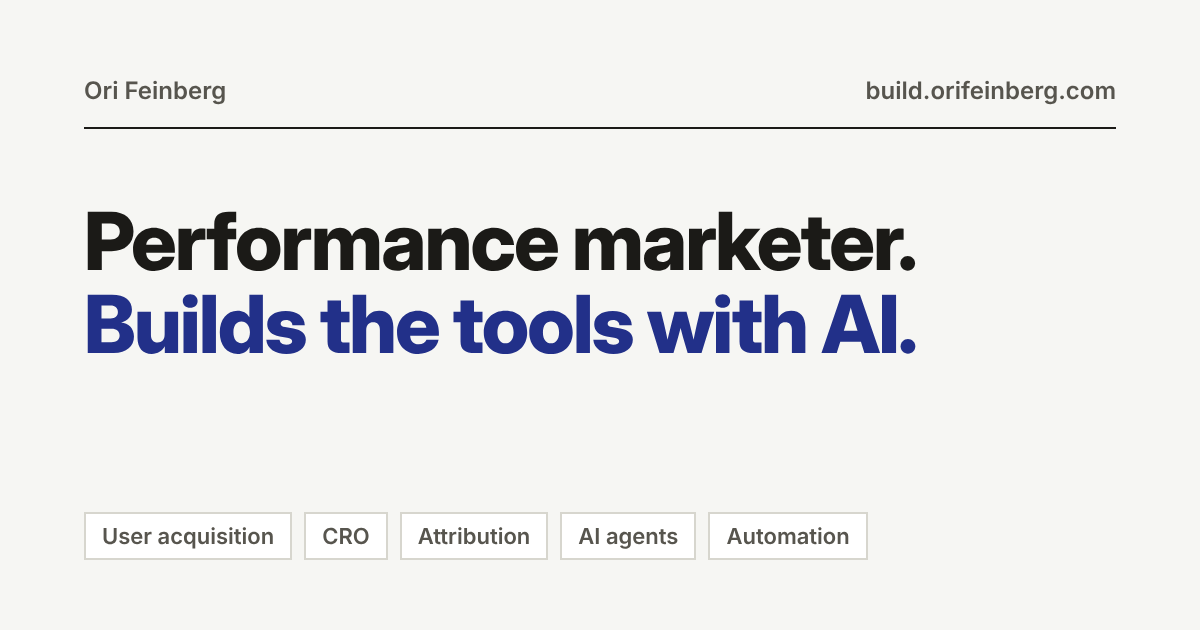
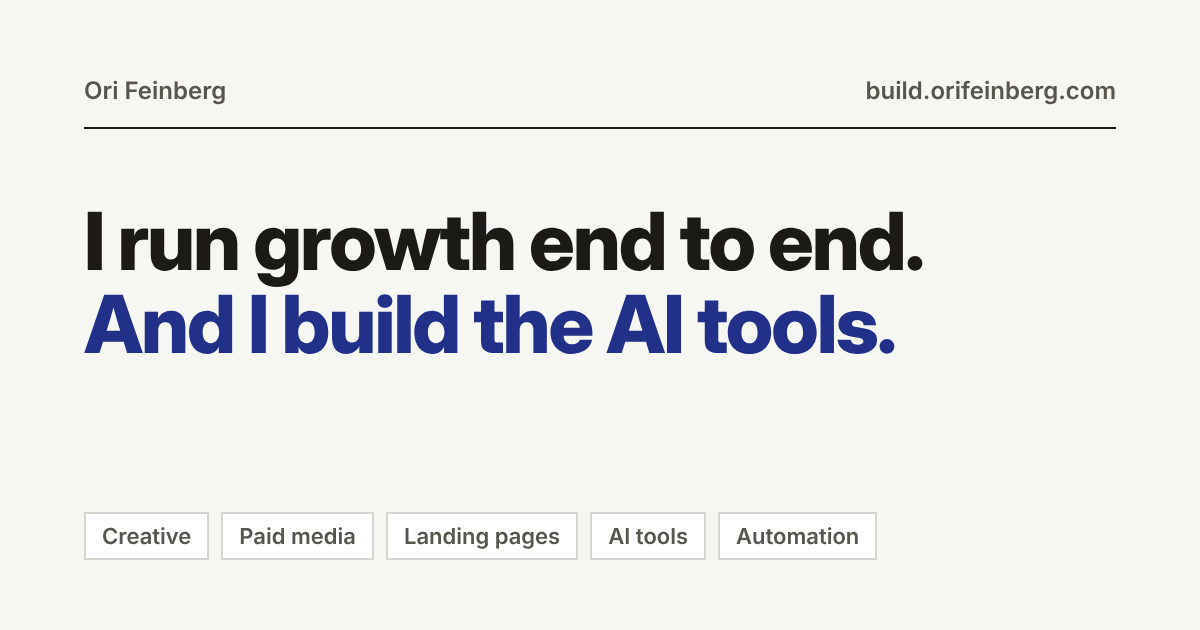
New headline

Changed region(s): [[0.0617, 0.3317, 0.7708, 0.573], [0.0925, 0.8143, 0.74, 0.9048]]

diff --git a/src/index.html b/src/index.html
@@ -229,16 +229,16 @@
     color: var(--ink-faint);
     font-weight: 500;
     margin: 0 0 clamp(1.4rem, 4vw, 2.4rem);
-    max-width: 34ch;
+    max-width: 60ch;
   }
   .statement {
     font-family: var(--sans-wide);
     font-weight: 800;
-    font-size: clamp(1.9rem, 6.2vw, 4.15rem);
-    line-height: 1.02;
+    font-size: clamp(1.75rem, 5vw, 3.4rem);
+    line-height: 1.05;
     letter-spacing: -0.02em;
     margin: 0;
-    max-width: 18ch;
+    max-width: 24ch;
   }
   .statement span { display: block; }
   .statement .turn { color: var(--accent); }
@@ -676,11 +676,11 @@
   <!-- ============ HERO ============ -->
   <section class="hero" aria-labelledby="statement">
     <div class="wrap">
-      <p class="hero-eyebrow">Performance marketing, with the build step included.</p>
+      <p class="hero-eyebrow">Growth marketer · Creative, paid media and CRO · AI&nbsp;builder</p>
       <h1 class="statement" id="statement">
-        <span>I spent years buying growth.</span>
-        <span>Now I build the systems that find it.</span>
-        <span class="turn">Agents, funnels, automation — tested, not assumed.</span>
+        <span>I run growth end to end.</span>
+        <span>Creative ideas and production, campaigns, landing pages.</span>
+        <span class="turn">And I build AI tools and automations to do it faster.</span>
       </h1>
 
       <!--
